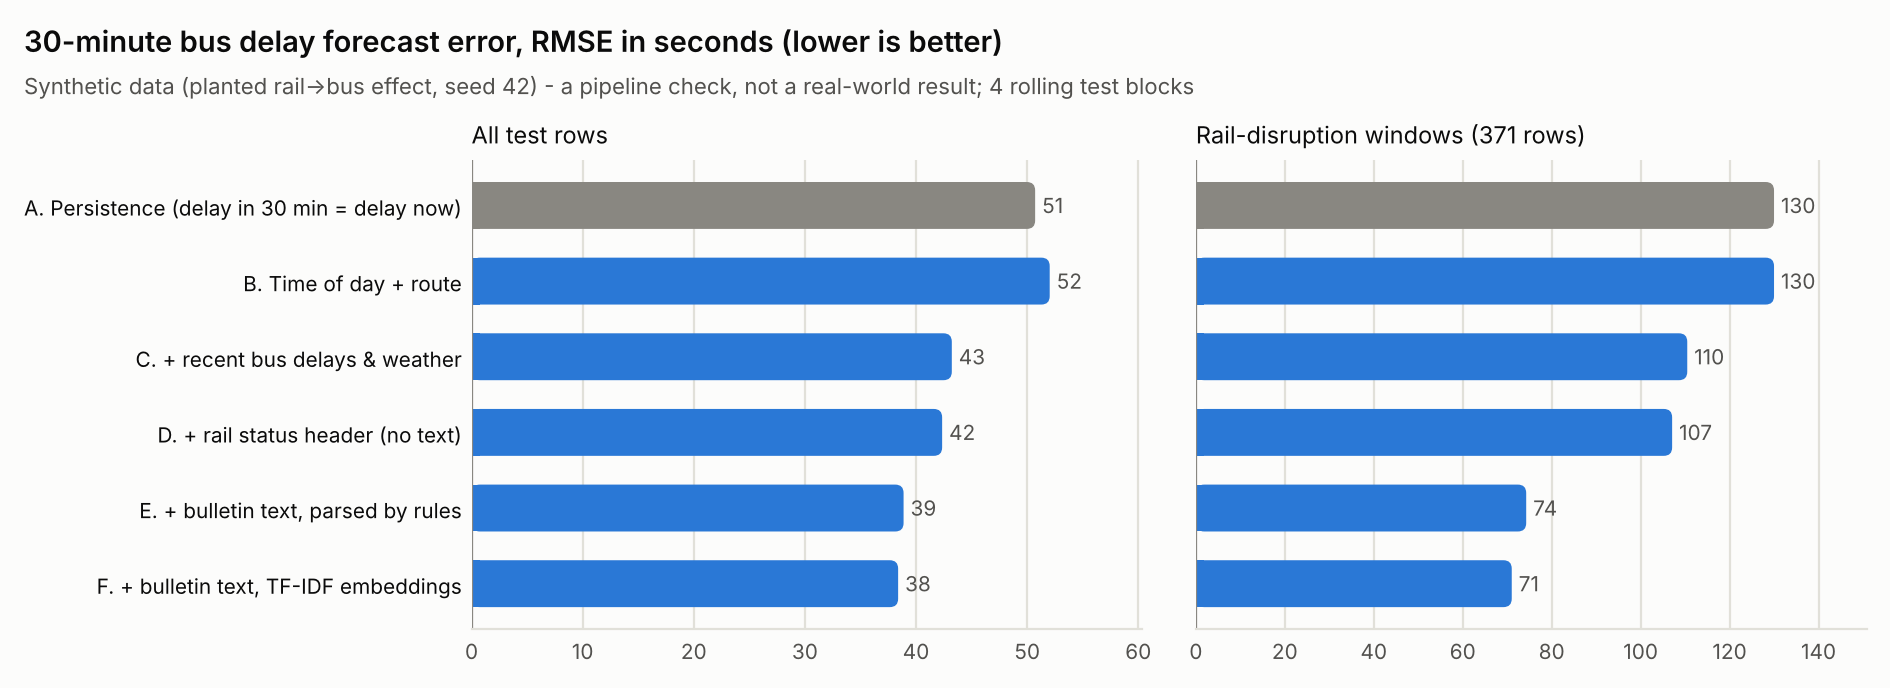
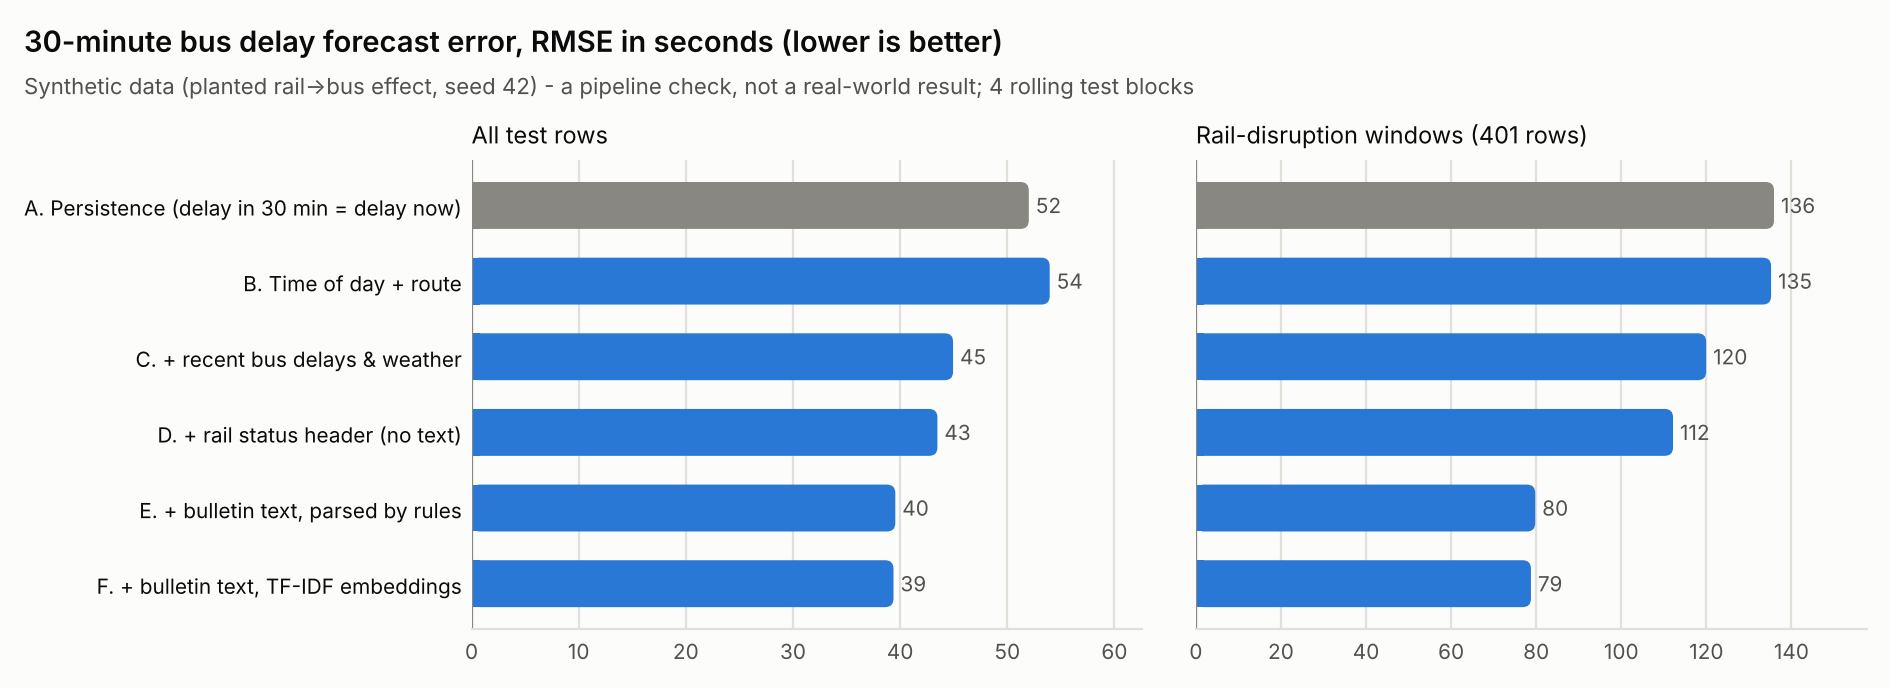
Link bus routes only to rail lines ODPT actually reports
With an API key, ODPT's TrainInformation feed covers Toei and Tokyo
Metro (plus a few smaller operators) but has no JR East or Tokyu
bulletins, so the JR Yamanote and Tokyu Den-en-toshi links could never
receive data. Replace them with Tokyo Metro Hibiya and Namboku, which
run alongside several routes according to their real stop lists
(Hibiya: Roppongi-Kamiyacho-Toranomon, Ginza-Tsukiji; Namboku:
Meguro-Shirokanedai-Azabu-Juban).

Re-ran the synthetic validation: placebo gains stay within 2.6%; with
the planted effect, the parsed bulletin text cuts disruption-window
error by 18.4% on average and helps in all 5 seeds. README, model card
and design notes updated, plus a note on GitHub's sparse scheduling.

diff --git a/src/config.py b/src/config.py
@@ -29,7 +29,8 @@ ODPT_API_KEY = os.getenv("ODPT_API_KEY") or ""
 TOEI_BUS_POSITIONS_URL = "https://api-public.odpt.org/api/v4/gtfs/realtime/ToeiBus"
 TOEI_BUS_GTFS_URL = "https://api-public.odpt.org/api/v4/files/Toei/data/ToeiBus-GTFS.zip"
 ODPT_PUBLIC_TRAIN_INFO_URL = "https://api-public.odpt.org/api/v4/odpt:TrainInformation"
-# Needs a free developer key from developer.odpt.org; adds JR East, Tokyo Metro, Tokyu, ...
+# Needs a free developer key from developer.odpt.org; adds Tokyo Metro's lines (and a few
+# others). JR East and Tokyu are NOT in this feed (checked with a key on 2026-11-24).
 ODPT_TRAIN_INFO_URL = "https://api.odpt.org/api/v4/odpt:TrainInformation"
 OPEN_METEO_URL = "https://api.open-meteo.com/v1/forecast"
 TOKYO_LAT, TOKYO_LON = 35.6895, 139.6917
@@ -71,8 +72,8 @@ RAIL_LINES: list[RailLine] = [
     RailLine("odpt.Railway:Toei.Mita", "Toei", "Toei Mita Line", "都営三田線", False),
     RailLine("odpt.Railway:TokyoMetro.Ginza", "TokyoMetro", "Tokyo Metro Ginza Line", "東京メトロ銀座線", True),
     RailLine("odpt.Railway:TokyoMetro.Marunouchi", "TokyoMetro", "Tokyo Metro Marunouchi Line", "東京メトロ丸ノ内線", True),
-    RailLine("odpt.Railway:JR-East.Yamanote", "JR-East", "JR Yamanote Line", "JR山手線", True),
-    RailLine("odpt.Railway:Tokyu.DenEnToshi", "Tokyu", "Tokyu Den-en-toshi Line", "東急田園都市線", True),
+    RailLine("odpt.Railway:TokyoMetro.Hibiya", "TokyoMetro", "Tokyo Metro Hibiya Line", "東京メトロ日比谷線", True),
+    RailLine("odpt.Railway:TokyoMetro.Namboku", "TokyoMetro", "Tokyo Metro Namboku Line", "東京メトロ南北線", True),
 ]
 
 # Route names and coordinates were checked against Toei's published GTFS timetable.
@@ -104,24 +105,27 @@ BUS_ROUTES: list[BusRoute] = [
 #   shares_terminal - starts or ends at one of the line's stations
 ROUTE_RAIL_LINKS: list[tuple[str, str, str]] = [
     ("Toei.To01", "odpt.Railway:TokyoMetro.Ginza", "same_endpoints"),
-    ("Toei.To01", "odpt.Railway:Toei.Oedo", "crosses"),
-    ("Toei.To01", "odpt.Railway:Tokyu.DenEnToshi", "shares_terminal"),
-    ("Toei.Shuku74", "odpt.Railway:Toei.Oedo", "parallel"),
-    ("Toei.Shuku91", "odpt.Railway:TokyoMetro.Marunouchi", "parallel"),
-    ("Toei.Shuku91", "odpt.Railway:Toei.Oedo", "crosses"),
-    ("Toei.Shina97", "odpt.Railway:JR-East.Yamanote", "same_endpoints"),
-    ("Toei.Shina97", "odpt.Railway:TokyoMetro.Marunouchi", "parallel"),
-    ("Toei.Shina97", "odpt.Railway:Toei.Oedo", "crosses"),
-    ("Toei.To02", "odpt.Railway:TokyoMetro.Marunouchi", "parallel"),
-    ("Toei.To02", "odpt.Railway:Toei.Oedo", "parallel"),
-    ("Toei.To02", "odpt.Railway:Toei.Mita", "crosses"),
-    ("Toei.To02", "odpt.Railway:JR-East.Yamanote", "shares_terminal"),
+    ("Toei.To01", "odpt.Railway:Toei.Oedo", "crosses"),  # Roppongi
+    ("Toei.To01", "odpt.Railway:TokyoMetro.Hibiya", "crosses"),  # Roppongi
+    ("Toei.To01", "odpt.Railway:TokyoMetro.Namboku", "crosses"),  # Tameike, Roppongi-itchome
+    ("Toei.Shuku74", "odpt.Railway:Toei.Oedo", "parallel"),  # Higashi-Shinjuku, Wakamatsu-Kawada
+    ("Toei.Shuku91", "odpt.Railway:TokyoMetro.Marunouchi", "parallel"),  # Nakano-Sakaue .. Higashi-Koenji
+    ("Toei.Shuku91", "odpt.Railway:Toei.Oedo", "crosses"),  # Nakano-Sakaue
+    ("Toei.Shina97", "odpt.Railway:TokyoMetro.Marunouchi", "parallel"),  # Yotsuya-sanchome .. Shinjuku
+    ("Toei.Shina97", "odpt.Railway:Toei.Oedo", "crosses"),  # Aoyama-itchome
+    ("Toei.Shina97", "odpt.Railway:TokyoMetro.Hibiya", "crosses"),  # Hiroo
+    ("Toei.To02", "odpt.Railway:TokyoMetro.Marunouchi", "parallel"),  # Shin-Otsuka .. Hongo-sanchome
+    ("Toei.To02", "odpt.Railway:Toei.Oedo", "parallel"),  # Kasuga .. Kuramae
+    ("Toei.To02", "odpt.Railway:Toei.Mita", "crosses"),  # Kasuga
+    ("Toei.To02", "odpt.Railway:TokyoMetro.Ginza", "crosses"),  # Ueno-hirokoji
     ("Toei.Shibu88", "odpt.Railway:TokyoMetro.Ginza", "same_endpoints"),
-    ("Toei.Shibu88", "odpt.Railway:Toei.Oedo", "crosses"),
-    ("Toei.Shibu88", "odpt.Railway:Tokyu.DenEnToshi", "shares_terminal"),
-    ("Toei.To05-1", "odpt.Railway:Toei.Oedo", "parallel"),
-    ("Toei.To05-1", "odpt.Railway:TokyoMetro.Marunouchi", "shares_terminal"),
-    ("Toei.Hashi86", "odpt.Railway:Toei.Mita", "parallel"),
-    ("Toei.Hashi86", "odpt.Railway:Toei.Oedo", "parallel"),
-    ("Toei.Hashi86", "odpt.Railway:JR-East.Yamanote", "same_endpoints"),
+    ("Toei.Shibu88", "odpt.Railway:TokyoMetro.Hibiya", "parallel"),  # Roppongi .. Kamiyacho .. Toranomon
+    ("Toei.Shibu88", "odpt.Railway:Toei.Oedo", "crosses"),  # Roppongi
+    ("Toei.To05-1", "odpt.Railway:Toei.Oedo", "parallel"),  # Tsukiji .. Kachidoki
+    ("Toei.To05-1", "odpt.Railway:TokyoMetro.Hibiya", "parallel"),  # Ginza .. Tsukiji
+    ("Toei.To05-1", "odpt.Railway:TokyoMetro.Marunouchi", "shares_terminal"),  # Tokyo
+    ("Toei.Hashi86", "odpt.Railway:Toei.Mita", "parallel"),  # Meguro, Shirokanedai, Onarimon
+    ("Toei.Hashi86", "odpt.Railway:TokyoMetro.Namboku", "parallel"),  # Meguro .. Shirokanedai .. Azabu-Juban
+    ("Toei.Hashi86", "odpt.Railway:Toei.Oedo", "parallel"),  # Azabu-Juban, Akabanebashi
+    ("Toei.Hashi86", "odpt.Railway:TokyoMetro.Hibiya", "crosses"),  # Kamiyacho, Hiroo
 ]

diff --git a/src/simulate.py b/src/simulate.py
@@ -51,11 +51,12 @@ STATIONS = {
     "odpt.Railway:TokyoMetro.Marunouchi": ["荻窪", "東高円寺", "新中野", "中野坂上", "西新宿", "新宿",
                                            "四谷三丁目", "赤坂見附", "霞ケ関", "銀座", "東京", "大手町",
                                            "本郷三丁目", "後楽園", "茗荷谷", "池袋"],
-    "odpt.Railway:JR-East.Yamanote": ["東京", "有楽町", "新橋", "浜松町", "品川", "大崎", "五反田", "目黒",
-                                      "恵比寿", "渋谷", "原宿", "新宿", "高田馬場", "池袋", "大塚",
-                                      "巣鴨", "日暮里", "上野", "秋葉原", "神田"],
-    "odpt.Railway:Tokyu.DenEnToshi": ["渋谷", "池尻大橋", "三軒茶屋", "駒沢大学", "用賀", "二子玉川",
-                                      "溝の口", "鷺沼", "たまプラーザ", "長津田", "中央林間"],
+    "odpt.Railway:TokyoMetro.Hibiya": ["中目黒", "恵比寿", "広尾", "六本木", "神谷町", "虎ノ門ヒルズ", "霞ケ関",
+                                       "日比谷", "銀座", "東銀座", "築地", "八丁堀", "茅場町", "人形町",
+                                       "秋葉原", "仲御徒町", "上野", "北千住"],
+    "odpt.Railway:TokyoMetro.Namboku": ["目黒", "白金台", "白金高輪", "麻布十番", "六本木一丁目", "溜池山王",
+                                        "永田町", "四ツ谷", "市ケ谷", "飯田橋", "後楽園", "東大前", "駒込",
+                                        "王子", "赤羽岩淵"],
 }
 
 # cause -> (phrasings, probability the incident escalates to a suspension, (min, max) buckets suspended)

diff --git a/src/collect.py b/src/collect.py
@@ -6,8 +6,8 @@
 Each snapshot records:
   * every Toei bus position (keyless GTFS-Realtime feed), with an estimated delay per bus
     worked out against Toei's published GTFS timetable;
-  * rail status bulletins from ODPT: Toei lines without a key, plus JR East, Tokyo Metro,
-    Tokyu, ... when ODPT_API_KEY is set;
+  * rail status bulletins from ODPT: Toei lines without a key, plus Tokyo Metro's lines
+    when ODPT_API_KEY is set (ODPT's feed has no JR East or Tokyu bulletins);
   * current Tokyo weather from Open-Meteo.
 
 A source that fails is noted under "errors" and the rest is still saved. The run exits

diff --git a/README.md b/README.md
@@ -72,12 +72,12 @@ Every seed is simulated twice: with the effect **planted**, and as a **placebo**
 
 Across 5 seeds, in rail-disruption windows, compared with model C (no rail information):
 
-- **Placebo:** every model stays within ±3.3% in every seed. Rail features don't "help" when there
+- **Placebo:** every model stays within ±2.6% in every seed. Rail features don't "help" when there
   is nothing to find, so no future information is leaking into the features.
-- **Planted:** reading the bulletin text (E) cuts forecast error by 12.9% on average. It helps in 4 of
-  5 seeds (+11% to +32%) and hurts in one (−29%). That seed's first two weeks contained only three
-  suspensions to learn from, which is a preview of what a few weeks of real data may look like.
-- The TF-IDF embeddings (F) add little beyond the rule-based parser (E).
+- **Planted:** reading the bulletin text (E) cuts forecast error by 18.4% on average and helps in
+  every seed, but by anywhere from 0.2% to 34%. The weakest seed's first two weeks contained only
+  three suspensions to learn from, which is a preview of what a few weeks of real data may look like.
+- The TF-IDF embeddings (F) add nothing beyond the rule-based parser (E).
 
 One run with the default seed (`python -m src.train`):
 
@@ -85,12 +85,12 @@ One run with the default seed (`python -m src.train`):
 
 | Model (seed 42, 4 rolling test blocks) | RMSE, all rows | RMSE, rail-disruption windows |
 |---|---:|---:|
-| A. Persistence: delay in 30 min = delay now | 50.7 s | 130.0 s |
-| B. Time of day + route | 52.0 s | 130.0 s |
-| C. + recent bus delays & weather | 43.2 s | 110.5 s |
-| D. + rail status header (no text) | 42.4 s | 107.1 s |
-| E. + bulletin text, parsed by rules | 38.9 s | 74.3 s |
-| F. + bulletin text, TF-IDF embeddings | 38.4 s | 71.0 s |
+| A. Persistence: delay in 30 min = delay now | 52.0 s | 135.9 s |
+| B. Time of day + route | 54.0 s | 135.2 s |
+| C. + recent bus delays & weather | 44.9 s | 120.0 s |
+| D. + rail status header (no text) | 43.5 s | 112.2 s |
+| E. + bulletin text, parsed by rules | 39.6 s | 79.8 s |
+| F. + bulletin text, TF-IDF embeddings | 39.4 s | 78.8 s |
 
 Seed 42 happens to be one of the favourable seeds; use the 5-seed numbers above as the summary.
 
@@ -100,7 +100,9 @@ In the first snapshots (18 Nov 2026, about 10:15-10:40 JST), every bus in Toei's
 snapshot) matched the published timetable by trip, route and stop, and the median estimated delay was
 about 2.5 minutes. Toei's keyless rail feed covers its six lines; its normal-service message is
 「現在、１５分以上の遅延はありません。」("no delays of 15 minutes or more"), which a naive keyword
-parser misreads as a delay. These are checks that the data supports the plan, not results.
+parser misreads as a delay. With an ODPT key (24 Nov 2026) the rail feed adds Tokyo Metro's lines and
+a few smaller operators, but no JR East or Tokyu lines, so the project links bus routes only to Toei
+and Tokyo Metro lines. These are checks that the data supports the plan, not results.
 
 ## Quickstart
 
@@ -120,8 +122,13 @@ streamlit run app.py             # dashboard
 
 The workflow in `.github/workflows/collect.yml` runs `src/collect.py` every 15 minutes and commits each
 snapshot to a `data` branch, which it creates on the first run. It needs no secrets for Toei data. To
-also collect JR East, Tokyo Metro and Tokyu lines, add a free key from
-[developer.odpt.org](https://developer.odpt.org/) as a repository secret named `ODPT_API_KEY`.
+also collect Tokyo Metro's lines, add a free key from [developer.odpt.org](https://developer.odpt.org/)
+as a repository secret named `ODPT_API_KEY`.
+
+GitHub's built-in scheduler is unreliable for frequent jobs: on this repository it ran the 15-minute
+schedule only about 3-4 times a day. For a steady 15-minute rhythm, have an outside scheduler (for
+example cron-job.org) call the workflow's `workflow_dispatch` endpoint, authenticated with a
+fine-grained token that has only the Actions permission on this repository.
 
 To analyse what has been collected so far:
 
@@ -199,8 +206,9 @@ themselves from it.
 - Bus delay is estimated from 15-minute position snapshots (about ±1 minute per bus), not measured at stops.
 - Which rail lines can affect which bus routes is a hypothesis read off the routes' stop lists
   (`ROUTE_RAIL_LINKS` in `src/config.py`); the real-data analysis is what tests it.
-- Without an ODPT key only Toei's six rail lines are collected. JR East, Tokyo Metro and Tokyu railway
-  IDs can only be confirmed once a key is set; the loader warns about any linked line it never sees.
+- Without an ODPT key only Toei's six rail lines are collected. ODPT's feed has no JR East or Tokyu
+  bulletins even with a key, so JR and private-railway disruptions are not covered. The loader warns
+  about any linked line it never sees.
 - GitHub can delay or skip scheduled runs, so the collected data has gaps. The SQL handles them, but
   they reduce the usable data.
 - The parser is keyword rules. Its accuracy on real bulletins is unknown until the labels are done.

diff --git a/docs/MODEL_CARD.md b/docs/MODEL_CARD.md
@@ -40,9 +40,9 @@
 
 | | Change in disruption-window RMSE vs. model C, mean of 5 seeds |
 |---|---|
-| D. + status header | planted −6.8%, placebo +0.4% |
-| E. + parsed bulletin text | planted −12.9% (one seed +29%), placebo +1.1% |
-| F. + TF-IDF embeddings | planted −13.4%, placebo +1.4% |
+| D. + status header | planted −8.7%, placebo +0.5% |
+| E. + parsed bulletin text | planted −18.4% (every seed improved, by 0.2% to 34.1%), placebo +0.4% |
+| F. + TF-IDF embeddings | planted −17.9%, placebo +1.3% |
 
 Negative means lower error. Seed-level results are in `artifacts/sanity_check_runs.csv` after
 `python -m src.sanity_check`.
@@ -51,8 +51,10 @@ Negative means lower error. Seed-level results are in `artifacts/sanity_check_ru
 
 - No real-data performance is known yet. The synthetic results depend on assumed incident rates and
   effect sizes.
-- Rare, large disruptions dominate the error. With few incidents to learn from, rail features can
-  make forecasts worse (one of five synthetic seeds did).
+- Rare, large disruptions dominate the error. With few incidents to learn from, the gain can vanish:
+  in one of five synthetic seeds the text model gained almost nothing and the embedding model made
+  forecasts slightly worse.
+- ODPT's rail feed has no JR East or Tokyu bulletins, so disruptions on those lines are invisible.
 - Bus delays are estimated from position snapshots (about ±1 minute) and the feed has gaps.
 - The route-to-rail links are a hand-made hypothesis.
 - The parser's severity score is a hand-set heuristic, not a calibrated probability.

diff --git a/docs/DESIGN_DECISIONS.md b/docs/DESIGN_DECISIONS.md
@@ -57,7 +57,7 @@ A test swaps in a nonsense parser and checks the bus delays don't change.
 
 **Why a placebo?** If rail features "help" in a world where rail has no effect, information is
 leaking from the future somewhere. The placebo world is identical except for the effect, so any
-gain there is a red flag. Across 5 seeds the placebo gains stay within ±3.3%.
+gain there is a red flag. Across 5 seeds the placebo gains stay within ±2.6%.
 
 ## Data
 
@@ -95,7 +95,9 @@ PostgreSQL support but couldn't actually run on it.
 a new file of about 18 KB, so the repository grows by roughly 50 MB a month.
 
 **Why are the route–rail links hand-made?** They are a hypothesis read off each route's real stop
-list: which lines it runs alongside or crosses. The real-data analysis is what tests them.
+list: which lines it runs alongside or crosses. Only Toei and Tokyo Metro lines are linked, because
+ODPT's feed has no JR East or Tokyu bulletins (checked with a key). The real-data analysis is what
+tests the links.
 
 ## What I'd do next
 
